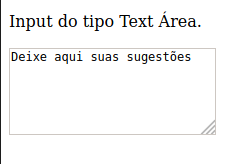
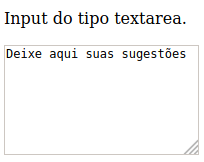
update textarea

Changed region(s): [[0.0, 0.0, 1.0, 1.0]]

diff --git a/HTML/Exemplos/form_txt_input.html b/HTML/Exemplos/form_txt_input.html
@@ -1,5 +1,5 @@
 <form action="http://www.servidor.php" method="get" >
-	<p> Input do tipo Text Área.</p>
-	<textarea name="sugestões" cols="20">Deixe aqui suas sugestões</textarea>
+	<p> Input do tipo textarea.</p>
+	<textarea name="sugestões">Deixe aqui suas sugestões</textarea>
 
 </form>
